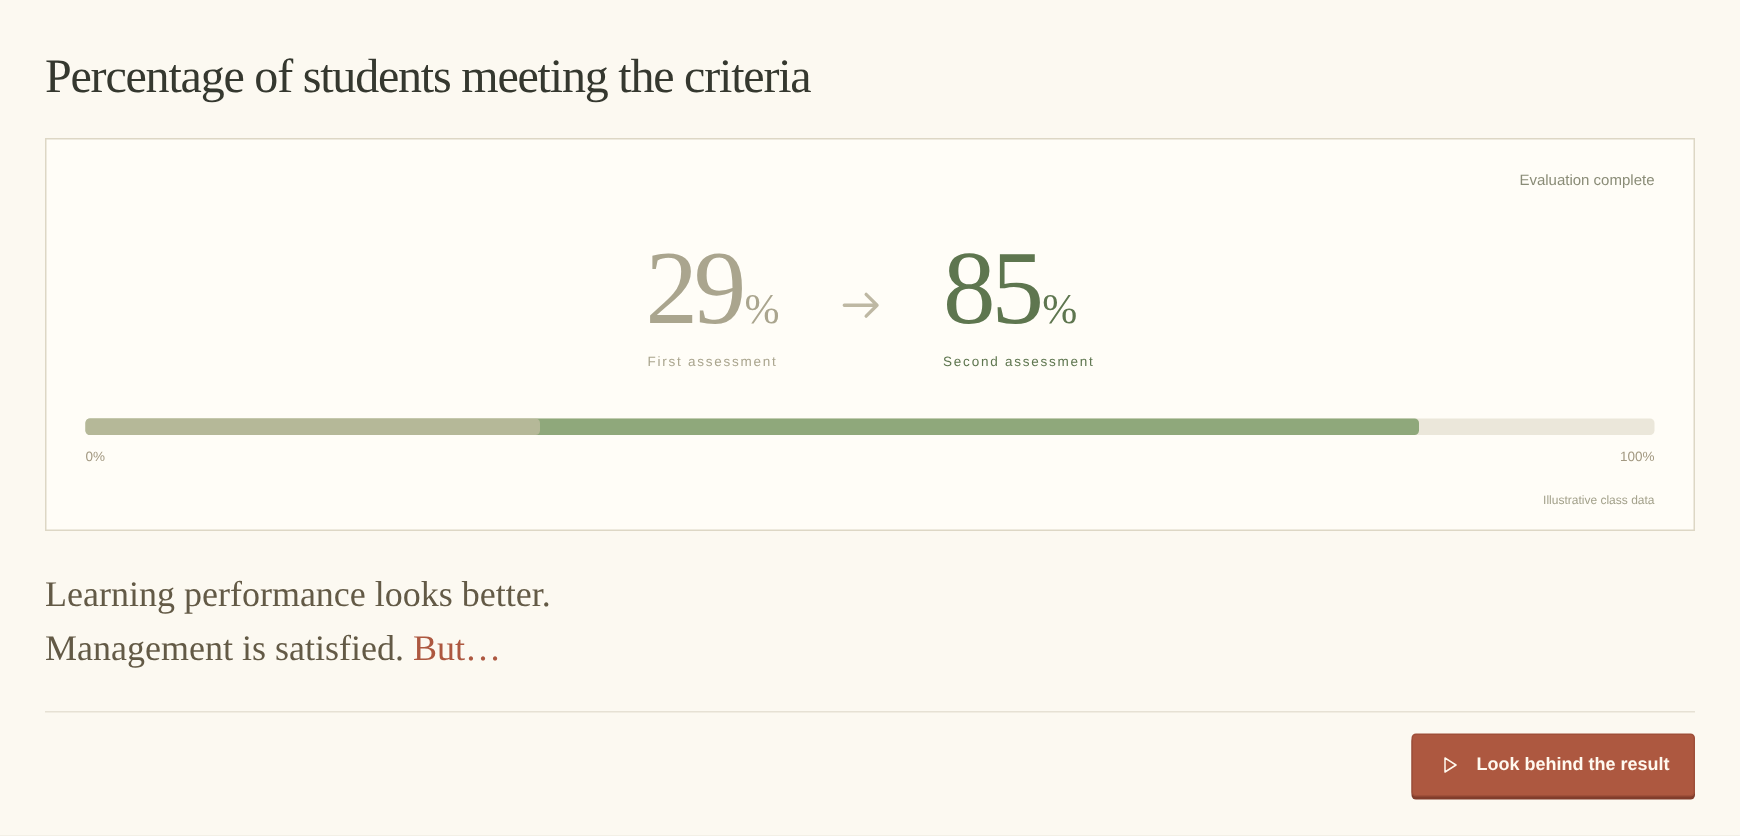
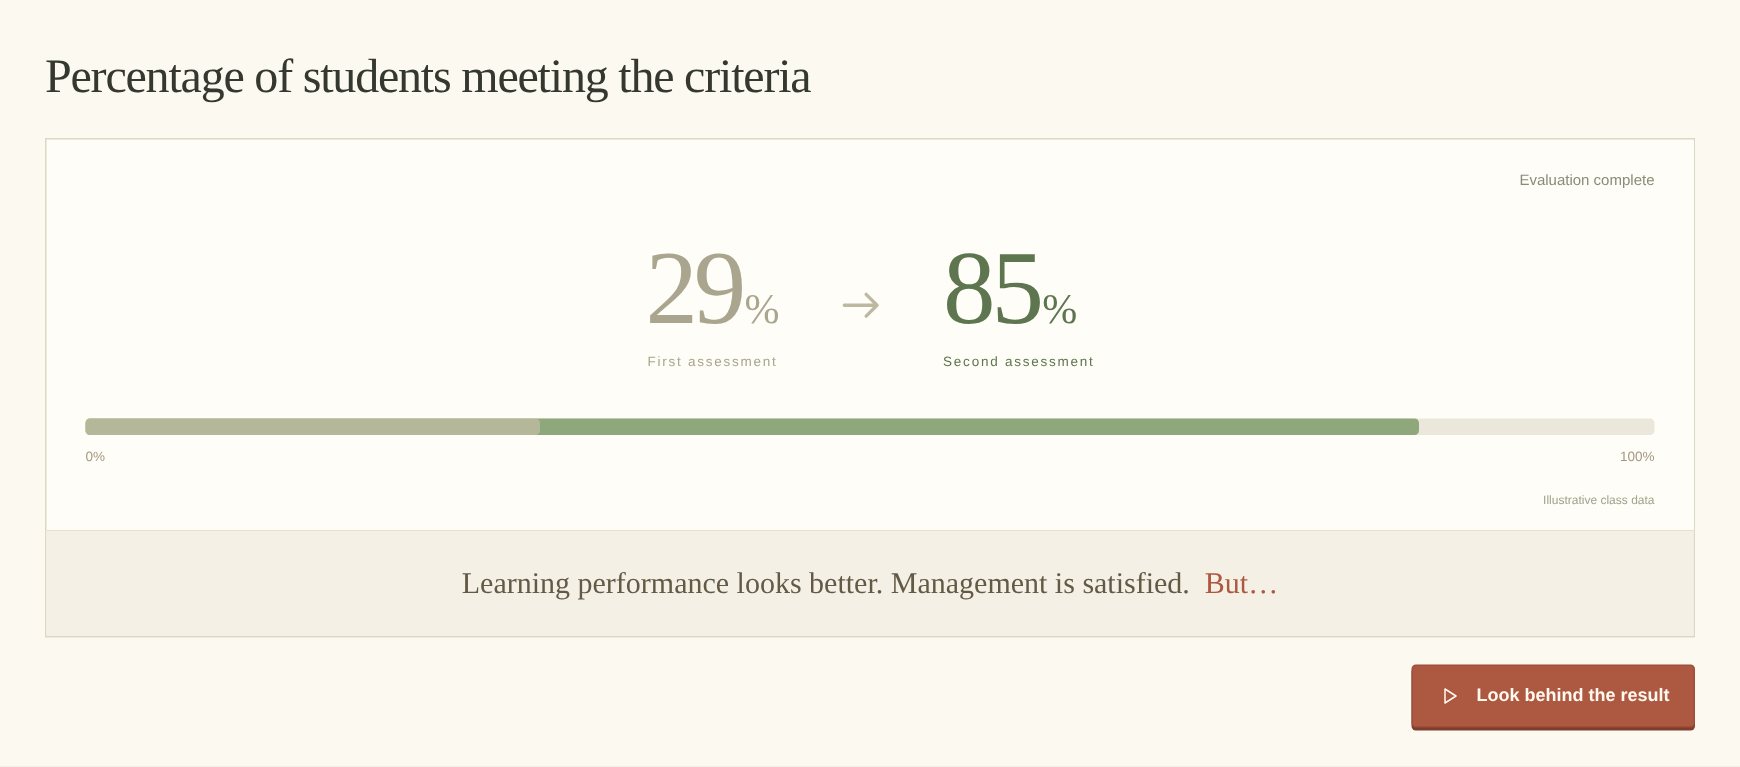
Integrate assessment bridge into centered result card footer

diff --git a/scripts/level1-assessment-review/review.css b/scripts/level1-assessment-review/review.css
@@ -1,10 +1,11 @@
 .assessment-review { max-width:1160px; margin:0 auto; padding:30px 30px 8px; background:var(--paper); }
 .assessment-review .section-intro { margin-bottom:22px; }
 .assessment-review .section-intro h2 { font-size:32px; line-height:1.25; letter-spacing:-.025em; }
-.assessment-review .score-paper { margin-bottom:0; }
+.assessment-review .assessment-card { border:1px solid #ddd7c5; background:#fffdf7; }
+.assessment-review .score-paper { margin-bottom:0; border:0; }
 .assessment-review .score-numbers { margin:32px 0 30px; }
-.assessment-review .assessment-bridge { padding:25px 0 23px; }
-.assessment-review .assessment-bridge p { font:24px/1.5 var(--serif); color:#635a46; }
-.assessment-review .assessment-bridge strong { color:var(--coral); font-weight:400; }
-.assessment-review .action-row { justify-content:flex-end; }
-@media(max-width:650px){.assessment-review{padding:24px 20px 8px}.assessment-review .section-intro h2{font-size:26px}.assessment-review .assessment-bridge p{font-size:21px}}
+.assessment-review .assessment-bridge { padding:20px 26px; text-align:center; border-top:1px solid #e7e0d1; background:#f5f0e5; }
+.assessment-review .assessment-bridge p { font:20px/1.5 var(--serif); color:#635a46; }
+.assessment-review .assessment-bridge strong { color:var(--coral); font-weight:400; margin-left:.25em; }
+.assessment-review .action-row { justify-content:flex-end; border-top:0; padding-top:18px; }
+@media(max-width:650px){.assessment-review{padding:24px 20px 8px}.assessment-review .section-intro h2{font-size:26px}.assessment-review .assessment-bridge p{font-size:18px}}

diff --git a/scripts/level1-assessment-review/entry.tsx b/scripts/level1-assessment-review/entry.tsx
@@ -7,7 +7,9 @@ import '../../src/shared/styles/base.css';
 import './review.css';
 createRoot(document.getElementById('root')!).render(<main className="level-one assessment-review">
  <div className="section-intro"><h2>Percentage of students meeting the criteria</h2></div>
+ <section className="assessment-card">
  <ResultChart metric={getMetric('part')!} ready score={85} assessmentReport />
- <div className="assessment-bridge"><p>Learning performance looks better.<br/>Management is satisfied. <strong>But…</strong></p></div>
+ <div className="assessment-bridge"><p>Learning performance looks better. Management is satisfied. <strong>But…</strong></p></div>
+ </section>
  <div className="action-row"><button type="button" className="button primary-button"><Icon name="play"/>Look behind the result</button></div>
 </main>);

diff --git a/scripts/level1-assessment-review/capture.py b/scripts/level1-assessment-review/capture.py
@@ -19,6 +19,7 @@ with sync_playwright() as p:
  expect(page.locator('.before-score')).to_contain_text('29%')
  expect(page.locator('.after-score')).to_contain_text('85%')
  expect(page.get_by_role('button')).to_have_text('Look behind the result')
+ expect(page.locator('.assessment-card > .assessment-bridge')).to_have_count(1)
  assert page.locator('.assessment-bridge').bounding_box()['y']<page.get_by_role('button').bounding_box()['y']
  output=ROOT/'play/Level1-assessment-preview.png';page.locator('.assessment-review').screenshot(path=str(output))
  page.set_viewport_size({'width':390,'height':850})
@@ -26,5 +27,5 @@ with sync_playwright() as p:
  assert not errors,errors
  browser.close()
 server.shutdown()
-(ROOT/'play/LEVEL1_ASSESSMENT_REVIEW.json').write_text(json.dumps({'scope':'Isolated preview only; production sources and formal game packages unchanged.','image':output.name,'sha256':hashlib.sha256(output.read_bytes()).hexdigest(),'checks':['Actual production chart uses 29% to 85% unchanged.','Metric name and duplicate heading removed.','Bridge above original Look behind the result button.','Desktop render and 390px layout fit.'],'runtimeErrors':errors},indent=2)+'\n')
+(ROOT/'play/LEVEL1_ASSESSMENT_REVIEW.json').write_text(json.dumps({'scope':'Isolated preview only; production sources and formal game packages unchanged.','image':output.name,'sha256':hashlib.sha256(output.read_bytes()).hexdigest(),'checks':['Actual production chart uses 29% to 85% unchanged.','Metric name and duplicate heading removed.','Bridge integrated inside the chart card footer, centered above the original button.','Desktop render and 390px layout fit.'],'runtimeErrors':errors},indent=2)+'\n')
 print('Assessment preview captured; desktop and mobile layout checks passed.')

diff --git a/AGENTS.md b/AGENTS.md
@@ -4,7 +4,9 @@
   formal packages unchanged. Screenshot: play/Level1-assessment-preview.png.
 - Replace Assessment results heading with Percentage of students meeting the
   criteria. Remove metric name (Participation and equivalents) and duplicate label.
-- Bridge between chart and unchanged Look behind the result button:
+- Revised bridge: centered in a lightly shaded footer INSIDE the result card,
+  above the unchanged Look behind the result button. User rejected the detached
+  large two-line copy at lower left. Current bridge:
   Learning performance looks better. Management is satisfied. But…
   But… is brick red. No repeated teacher bubble in this isolated proposal.
 - The actual ResultChart is adapted at review build time only; preserve its data.

diff --git a/scripts/level1-assessment-review/README.md b/scripts/level1-assessment-review/README.md
@@ -4,6 +4,6 @@ Preview only. Production source and formal packages are unchanged.
 The Vite transform exports the actual ResultChart solely for review, removes its
 metric name and duplicate subtitle. The heading is Percentage of students meeting
 the criteria. The bridge reads Learning performance looks better. Management is
-satisfied. But… above the unchanged Look behind the result button.
+satisfied. But… inside a centered, lightly shaded chart-card footer above the unchanged Look behind the result button.
 
 Build with `node node_modules/vite/bin/vite.js build --config scripts/level1-assessment-review/vite.config.mjs`, then run `python3 scripts/level1-assessment-review/capture.py`.
